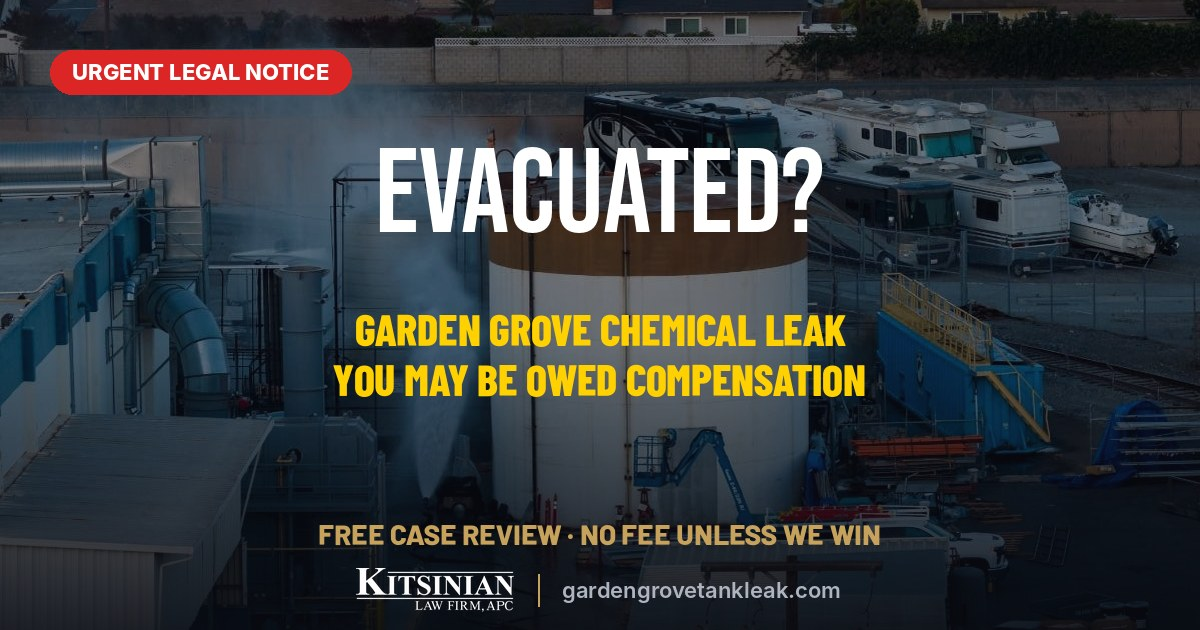
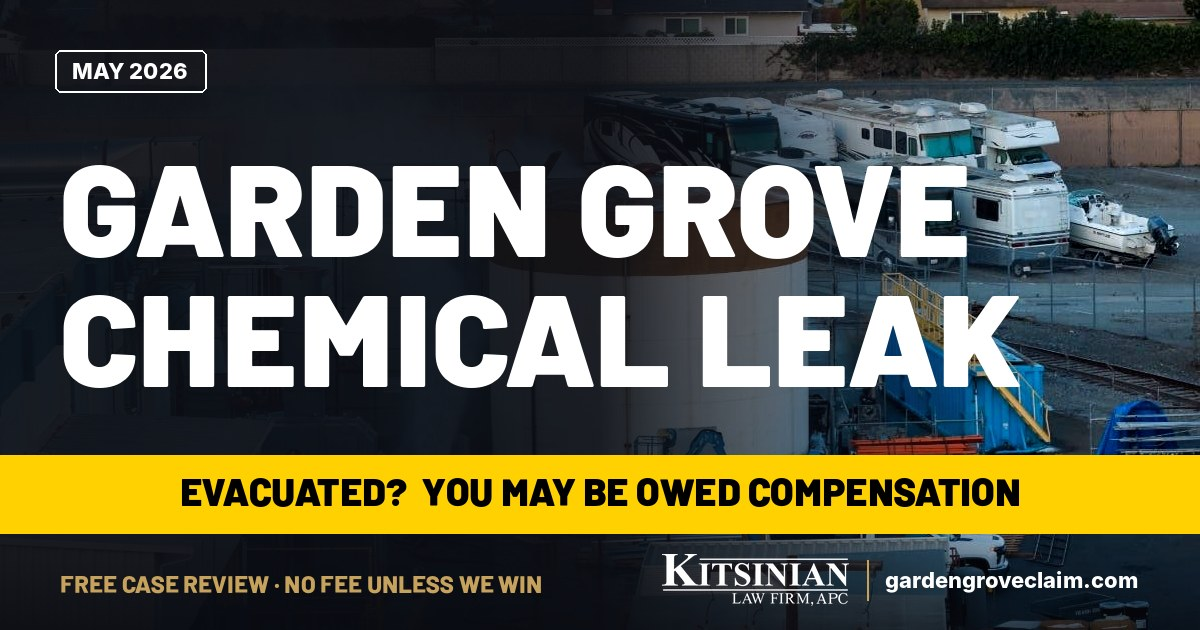
Refresh OG link-preview images (v2 design + new domain)
Old v1: centered "EVACUATED?" headline floating over dark photo, red
"URGENT LEGAL NOTICE" chip, gardengrovetankleak.com baked in footer,
yellow subhead text decorative not informational.

New v2:
- Left-aligned 130pt Barlow Black "GARDEN GROVE / CHEMICAL LEAK"
  headline (two-line stack) — identifies the event clearly at any size
- Directional gradient (solid dark left 50%, fading clear right 15%)
  replaces flat 55% overlay — keeps photo readable
- Full-width yellow info bar carries the conversion hook:
  "EVACUATED?  YOU MAY BE OWED COMPENSATION" — ad-convention
  treatment for important info
- "MAY 2026" outlined date stamp top-left (recency signal)
- Asymmetric footer: gold trust line bottom-left, logo + WHITE domain
  bottom-right (better thumbnail legibility than muted gray)
- Domain corrected to gardengroveclaim.com

ES variant translated: "DERRAME QUÍMICO EN GARDEN GROVE" headline,
"¿FUE EVACUADO? PUEDE TENER COMPENSACIÓN" bar, "MAYO 2026" stamp.

Micro-polish applied: yellow bar text nudged up 3px for optical
center, trust line dropped 4px for baseline alignment with logo,
date stamp bumped to 22pt for confidence.

diff --git a/build_og_images.py b/build_og_images.py
@@ -1,15 +1,20 @@
 """
 Generate Open Graph (link preview) images for the landing page.
 1200x630 — the dimension Facebook/LinkedIn/iMessage/etc. use for previews.
-Headline + trust line are BURNED IN to the image (no HTML overlay) because
-social media platforms render the image, not the page.
+
+v2 design (May 2026 spruce-up):
+- Headline left-aligned, two-line, Barlow Black — "GARDEN GROVE / CHEMICAL LEAK"
+- Directional gradient (left dark, right reveal) instead of full overlay
+- Full-width yellow info bar with conversion hook
+- Bottom-right logo+domain, bottom-left trust line (asymmetric energy)
+- Top-left small "MAY 2026" date stamp for recency signal
 
 Output:
-  - og-en.jpg  (English version, for root URL)
-  - og-es.jpg  (Spanish version, for /es/ URL)
+  - og-en.jpg  (English, root URL)
+  - og-es.jpg  (Spanish, /es/ URL)
 """
 
-from PIL import Image, ImageDraw, ImageFont, ImageEnhance, ImageFilter
+from PIL import Image, ImageDraw, ImageFont, ImageEnhance
 from pathlib import Path
 
 OUT = Path(__file__).parent
@@ -18,7 +23,6 @@ LOGO_PATH = OUT / "logo.png"
 
 W, H = 1200, 630
 
-# Brand palette
 COLORS = {
     "bg_dark": (12, 14, 20),
     "yellow": (255, 209, 0),
@@ -26,15 +30,12 @@ COLORS = {
     "white": (255, 255, 255),
     "gold": (198, 162, 92),
     "muted": (174, 180, 192),
+    "black": (0, 0, 0),
 }
 
-# Fonts (firm standards)
-FONT_BEBAS = "/Users/hkitsinian/Library/Fonts/BebasNeue-Regular.otf"
 FONT_BARLOW_BLACK = "/Users/hkitsinian/Library/Fonts/Barlow-Black.otf"
 FONT_BARLOW_XBOLD = "/Users/hkitsinian/Library/Fonts/Barlow-ExtraBold.otf"
-FONT_BARLOW_COND_XB = "/Users/hkitsinian/Library/Fonts/BarlowCondensed-ExtraBold.otf"
 FONT_INTER_XBOLD = "/Users/hkitsinian/Library/Fonts/Inter-ExtraBold.otf"
-FONT_INTER_SEMI = "/Users/hkitsinian/Library/Fonts/Inter-SemiBold.otf"
 
 
 def f(path, size):
@@ -52,6 +53,12 @@ def draw_cap_centered(draw, cx, cy, text, font, fill):
     draw.text((cx, top_y), text, font=font, fill=fill, anchor="mt")
 
 
+def draw_cap_left(draw, x, cy, text, font, fill):
+    ch = cap_height(draw, font)
+    top_y = cy - ch // 2
+    draw.text((x, top_y), text, font=font, fill=fill, anchor="lt")
+
+
 def cover_fit(src, w, h):
     sw, sh = src.size
     scale = max(w / sw, h / sh)
@@ -62,125 +69,138 @@ def cover_fit(src, w, h):
     return img.crop((left, top, left + w, top + h))
 
 
-def build_og(headline_lines, subhead, trust_line, domain, output_filename, chip_text="URGENT LEGAL NOTICE"):
-    """headline_lines = list of strings rendered in Bebas Neue."""
-    # Background photo with brighten + 50% dark overlay
+def text_width(draw, text, font):
+    b = draw.textbbox((0, 0), text, font=font, anchor="lt")
+    return b[2] - b[0]
+
+
+def build_og(headline_lines, yellow_bar_text, trust_line, domain, output_filename, date_text="MAY 2026"):
+    """v2 layout — left-aligned big headline, yellow info bar, asymmetric footer."""
+    # 1) Background photo (brighten + contrast)
     photo = Image.open(PHOTO_PATH).convert("RGB")
     bg = cover_fit(photo, W, H)
     bg = ImageEnhance.Brightness(bg).enhance(1.10)
     bg = ImageEnhance.Contrast(bg).enhance(1.15)
-    overlay = Image.new("RGB", (W, H), COLORS["bg_dark"])
-    bg = Image.blend(bg, overlay, 0.55)
     img = bg.convert("RGBA")
 
-    # Gradient at bottom for trust line legibility
-    grad = Image.new("RGBA", (W, H), (0, 0, 0, 0))
-    gd = ImageDraw.Draw(grad)
-    for y in range(int(H * 0.55), H):
-        t = (y - int(H * 0.55)) / (H - int(H * 0.55))
-        a = int(t * 200)
-        gd.line([(0, y), (W, y)], fill=(8, 10, 16, a))
-    img.alpha_composite(grad)
+    # 2) Left-side directional gradient (solid dark on left, fades to clear on right)
+    # Solid dark in left 50%, fades to transparent by x=85% — keeps photo visible on right
+    grad_strip = Image.new("L", (W, 1), 0)
+    for x in range(W):
+        if x < int(W * 0.50):
+            mask = 235  # near-solid dark on left half
+        elif x < int(W * 0.85):
+            t = (x - int(W * 0.50)) / (int(W * 0.85) - int(W * 0.50))
+            mask = int(235 * (1 - t))  # fade through middle
+        else:
+            mask = 0  # fully transparent on right 15%
+        grad_strip.putpixel((x, 0), mask)
+    grad_mask = grad_strip.resize((W, H))
+    dark_layer = Image.new("RGBA", (W, H), COLORS["bg_dark"] + (255,))
+    dark_layer.putalpha(grad_mask)
+    img.alpha_composite(dark_layer)
+
+    # 3) Bottom gradient strip for footer legibility (full-width subtle)
+    bot_grad = Image.new("RGBA", (W, H), (0, 0, 0, 0))
+    bgd = ImageDraw.Draw(bot_grad)
+    for y in range(int(H * 0.78), H):
+        t = (y - int(H * 0.78)) / (H - int(H * 0.78))
+        a = int(t * 180)
+        bgd.line([(0, y), (W, y)], fill=(8, 10, 16, a))
+    img.alpha_composite(bot_grad)
 
     draw = ImageDraw.Draw(img)
 
-    # Top-left URGENT chip
-    chip_font = f(FONT_INTER_XBOLD, 22)
-    chip_pad_x, chip_pad_y = 22, 11
-    chip_w = draw.textbbox((0, 0), chip_text, font=chip_font, anchor="lt")[2] + chip_pad_x * 2
-    chip_h = chip_font.size + chip_pad_y * 2
-    chip_x, chip_y = 50, 50
+    # 4) Top-left date stamp (outlined chip, no fill)
+    date_font = f(FONT_INTER_XBOLD, 22)
+    date_pad_x, date_pad_y = 18, 10
+    date_w = text_width(draw, date_text, date_font) + date_pad_x * 2
+    date_h = date_font.size + date_pad_y * 2
+    date_x, date_y = 55, 50
     draw.rounded_rectangle(
-        [chip_x, chip_y, chip_x + chip_w, chip_y + chip_h],
-        radius=chip_h // 2, fill=COLORS["red"],
+        [date_x, date_y, date_x + date_w, date_y + date_h],
+        radius=6, outline=COLORS["white"], width=2,
     )
-    draw_cap_centered(draw, chip_x + chip_w // 2, chip_y + chip_h // 2, chip_text, chip_font, COLORS["white"])
+    draw_cap_centered(draw, date_x + date_w // 2, date_y + date_h // 2, date_text, date_font, COLORS["white"])
 
-    # Headline (centered vertically in upper-middle)
-    head_font = f(FONT_BEBAS, 120)
-    n_lines = len(headline_lines)
-    line_h = 110
-    total_h = line_h * n_lines
-    head_start_y = int(H * 0.30) - total_h // 2 + line_h // 2
+    # 5) Headline (left-aligned, two lines, Barlow Black 130pt)
+    head_font = f(FONT_BARLOW_BLACK, 130)
+    head_x = 60
+    line_h = 130  # tight line height for max impact
+    head_start_y = 165  # cap top of first line
     for i, line in enumerate(headline_lines):
-        draw_cap_centered(
-            draw, W // 2, head_start_y + i * line_h,
-            line, head_font, COLORS["white"],
-        )
+        draw_cap_left(draw, head_x, head_start_y + i * line_h + (cap_height(draw, head_font) // 2),
+                      line, head_font, COLORS["white"])
 
-    # Subhead (yellow, below headline)
-    sub_font = f(FONT_BARLOW_COND_XB, 44)
-    sub_y = head_start_y + n_lines * line_h + 30
-    # support 2-line subhead via list or 1-line via string
-    if isinstance(subhead, str):
-        subhead = [subhead]
-    sub_line_h = 50
-    for i, line in enumerate(subhead):
-        draw_cap_centered(
-            draw, W // 2, sub_y + i * sub_line_h,
-            line, sub_font, COLORS["yellow"],
-        )
+    # 6) Yellow info bar — full-width strip with conversion hook
+    bar_h = 78
+    bar_y = head_start_y + len(headline_lines) * line_h + 30  # 30px breathing room below headline
+    draw.rectangle([0, bar_y, W, bar_y + bar_h], fill=COLORS["yellow"])
+    bar_font = f(FONT_BARLOW_BLACK, 38)
+    # Nudge text up 3px — cap-centered all-caps reads bottom-heavy at default
+    draw_cap_centered(draw, W // 2, bar_y + bar_h // 2 - 3, yellow_bar_text, bar_font, COLORS["black"])
 
-    # Trust line (gold, bottom)
-    trust_font = f(FONT_BARLOW_XBOLD, 28)
-    draw_cap_centered(draw, W // 2, H - 95, trust_line, trust_font, COLORS["gold"])
+    # 7) Bottom row — asymmetric: trust line left, logo+domain right
+    footer_y = H - 50  # vertical mid of footer row
+    trust_font = f(FONT_BARLOW_XBOLD, 24)
+    # Drop trust line 4px to baseline-align with logo+domain block on right
+    draw_cap_left(draw, 60, footer_y + 4, trust_line, trust_font, COLORS["gold"])
 
-    # Logo + domain bottom
+    # Logo + domain bottom-right
     try:
         logo = Image.open(LOGO_PATH).convert("RGBA")
-        logo_h = 44
+        logo_h = 52
         logo_w = int(logo.width * (logo_h / logo.height))
         logo = logo.resize((logo_w, logo_h), Image.LANCZOS)
-        # Bottom-center: logo on left, domain on right of logo
-        domain_font = f(FONT_INTER_SEMI, 22)
-        gap = 24
-        domain_bbox = draw.textbbox((0, 0), domain, font=domain_font, anchor="lm")
-        domain_w = domain_bbox[2] - domain_bbox[0]
-        # Vertical divider
+        domain_font = f(FONT_INTER_XBOLD, 22)
+        domain_w = text_width(draw, domain, domain_font)
+        gap = 18
+        right_edge = W - 60
+        # Layout: [logo] | [domain] anchored to right
         block_w = logo_w + gap + 2 + gap + domain_w
-        start_x = (W - block_w) // 2
-        y_mid = H - 40
+        start_x = right_edge - block_w
+        y_mid = footer_y
         img.paste(logo, (start_x, y_mid - logo_h // 2), logo)
-        # divider
+        # Gold divider
         div_x = start_x + logo_w + gap
         draw.line(
             [(div_x, y_mid - logo_h // 2 + 6), (div_x, y_mid + logo_h // 2 - 6)],
             fill=COLORS["gold"], width=2,
         )
-        # domain
+        # Domain in WHITE (not muted — better legibility at thumbnail)
         draw.text(
             (div_x + gap, y_mid), domain,
-            font=domain_font, fill=COLORS["muted"], anchor="lm",
+            font=domain_font, fill=COLORS["white"], anchor="lm",
         )
     except Exception as e:
         print(f"  logo render skipped: {e}")
 
-    # Save as JPEG (smaller than PNG, OG-standard)
     out_path = OUT / output_filename
     img.convert("RGB").save(out_path, "JPEG", quality=88, optimize=True)
     print(f"  Wrote {out_path} ({W}x{H})")
 
 
 def main():
-    print("Building OG images...")
+    print("Building OG images (v2 design)...")
 
     # English
     build_og(
-        headline_lines=["EVACUATED?"],
-        subhead=["GARDEN GROVE CHEMICAL LEAK", "YOU MAY BE OWED COMPENSATION"],
+        headline_lines=["GARDEN GROVE", "CHEMICAL LEAK"],
+        yellow_bar_text="EVACUATED?  YOU MAY BE OWED COMPENSATION",
         trust_line="FREE CASE REVIEW · NO FEE UNLESS WE WIN",
-        domain="gardengrovetankleak.com",
+        domain="gardengroveclaim.com",
         output_filename="og-en.jpg",
+        date_text="MAY 2026",
     )
 
     # Spanish
     build_og(
-        headline_lines=["¿FUE EVACUADO?"],
-        subhead=["DERRAME QUÍMICO EN GARDEN GROVE", "PUEDE TENER DERECHO A COMPENSACIÓN"],
+        headline_lines=["DERRAME QUÍMICO", "EN GARDEN GROVE"],
+        yellow_bar_text="¿FUE EVACUADO?  PUEDE TENER COMPENSACIÓN",
         trust_line="CONSULTA GRATIS · SIN COSTO SI NO GANAMOS",
-        domain="gardengrovetankleak.com/es",
+        domain="gardengroveclaim.com/es",
         output_filename="og-es.jpg",
-        chip_text="AVISO LEGAL URGENTE",
+        date_text="MAYO 2026",
     )
 
 